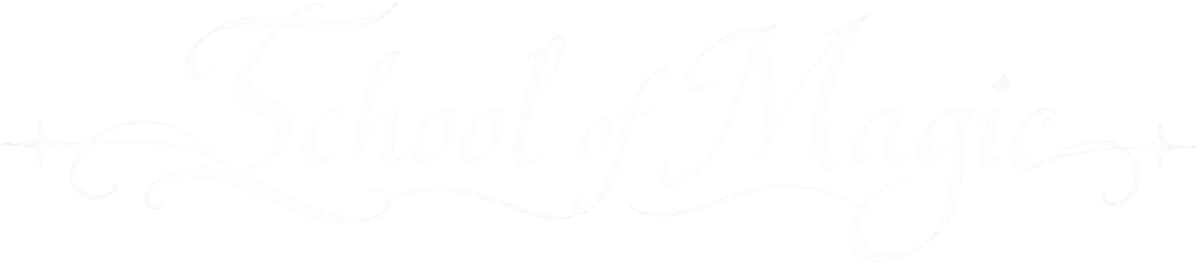
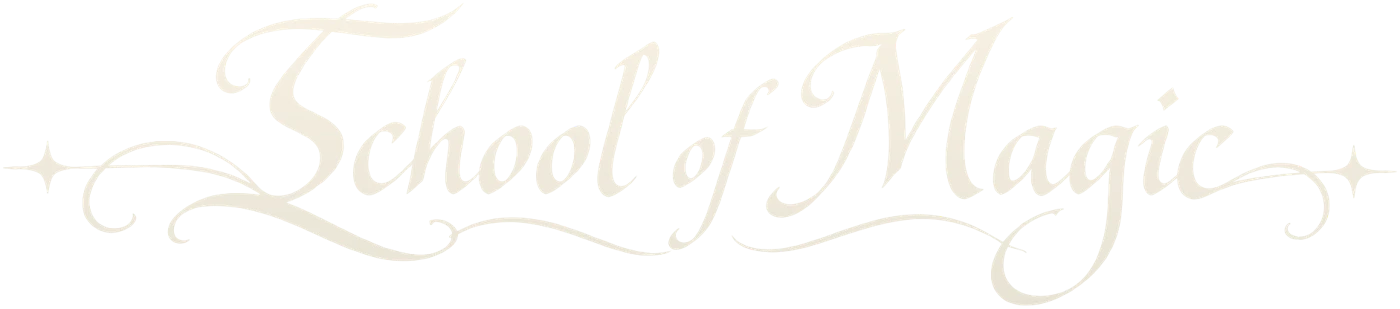
Título liso con contorno; texto de botones centrado
Claude-Session: https://claude.ai/code/session_01J2ArvszrNwhcddwQryTBZN

diff --git a/public/style.css b/public/style.css
@@ -1735,3 +1735,9 @@ body.on-splash .topbar { background: none !important; position: relative; z-inde
   .splash-by { font-size: 1.2em; }
 }
 @media (min-width: 761px) { .splash .play-btn { --bh: 96px !important; font-size: 2.5em !important; min-width: 360px; } }
+/* título liso: contorno oscuro suave para que destaque sobre el claro */
+.splash-title .title-art, .brand .title-art {
+  filter: drop-shadow(0 0 1px rgba(40, 25, 10, .9)) drop-shadow(0 0 6px rgba(30, 20, 8, .75)) drop-shadow(0 4px 14px rgba(0, 0, 0, .6)) !important;
+}
+/* texto de los botones de papiro centrado en el papel (la rama de abajo es más gruesa que la de arriba) */
+.btn.primary, .float-act .btn, .home-actions .btn, .lobby .row .btn, .parch-card .row .btn { padding-bottom: .22em !important; line-height: 1 !important; }

diff --git a/tools/titulo.py b/tools/titulo.py
@@ -1,0 +1,18 @@
+"""Títulos caligráficos (hojas 29 y 47) en marfil liso: sin la textura plateada que se veía a manchas."""
+import sys
+import numpy as np
+from PIL import Image
+
+SRC = sys.argv[1:3]  # español, inglés
+for src, out in zip(SRC, ['titulo', 'titulo-en']):
+    a = np.asarray(Image.open(src).convert('RGBA')).astype(float)
+    al = np.clip((a[..., 3] / 255 - 0.12) / 0.5, 0, 1)  # trazo lleno, sin zonas medio transparentes
+    h, w = al.shape
+    grad = np.linspace(1, 0.9, h)[:, None] * np.ones((1, w))  # leve degradado de arriba abajo
+    rgb = np.stack([253 * grad, 247 * grad, 232 * grad], -1)
+    img = Image.fromarray(np.dstack([rgb, al * 255]).clip(0, 255).astype('uint8'), 'RGBA')
+    bb = img.getchannel('A').point(lambda v: 255 if v > 40 else 0).getbbox()
+    img = img.crop((bb[0] - 4, bb[1] - 4, bb[2] + 4, bb[3] + 4))
+    img.thumbnail((1400, 1400))
+    img.save(f'public/img/ui/{out}.webp', quality=92)
+    print(out, img.size)
